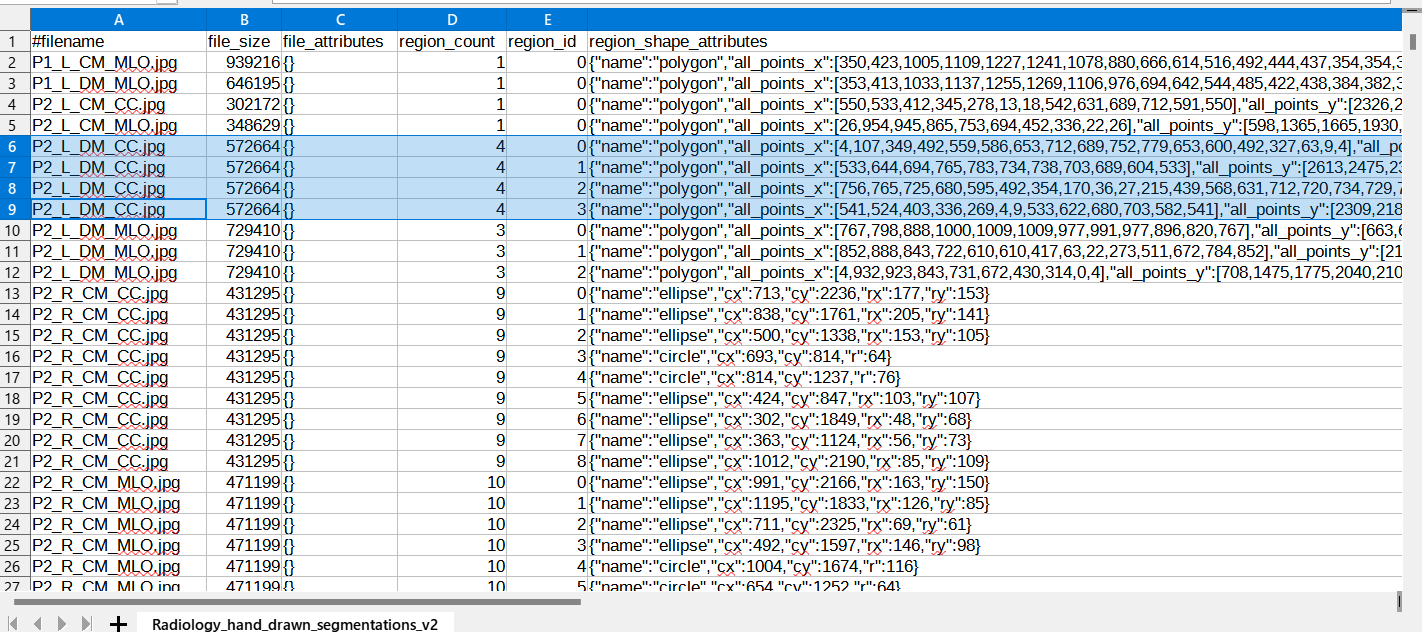
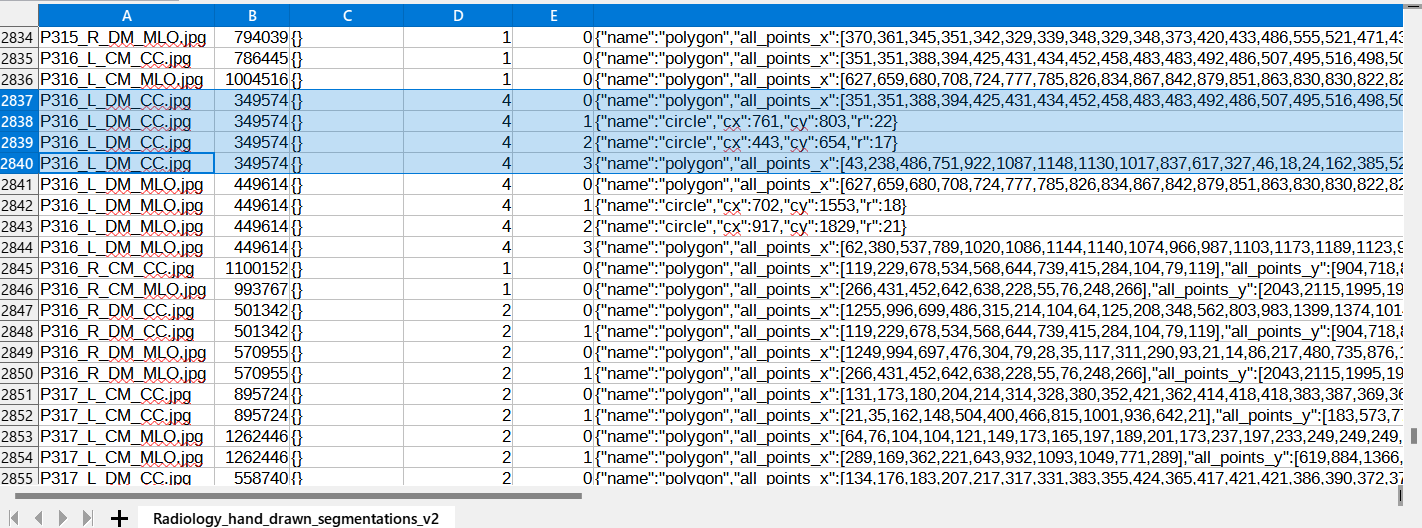
Initial commit

diff --git a/README.md b/README.md
@@ -107,13 +107,17 @@ The script performs the following image processings.<br>
   Subtracted images of CDD-CESM
 by referencing Radiology-manual-annotations.csv file.
 </pre>
+We are able to identiy a category("Benign, "Malignant") of each image file of those 
+folders by using <b>Radiology-manual-annotations.csv</b> file.<br>
+For example, <b>P316_L_DM_CC</b> image is "Malignant" as shown below.<br> 
+<img src="./asset/Radiology-manual-annotations.csv.png"  width="720" height="auto"><br>
 
 <pre>
 2 Create 512x512 square mask jpg files corresponding to those "Malignant" image files by using 
 circles, ellipses and polygons json data defined in Radiology_hand_drawn_segmentations_v2.csv.
 </pre>
-For example, <b>P2_L_DM_CC.jpg</b> image has four segmented polygon-regions as shown below.<br> 
-<img src="./asset/Radiology_hand_drawn_segmentations_v2.csv.png"><br>
+For example, <b>P316_L_DM_CC.jpg</b> image has four segmented regions (circles and polygons) as shown below.<br> 
+<img src="./asset/Radiology_hand_drawn_segmentations_v2.csv.png" width="720" height="auto"><br>
 
 <pre>
 3 Create rotated and flipped image and mask files to augment the resized image and mask files.
